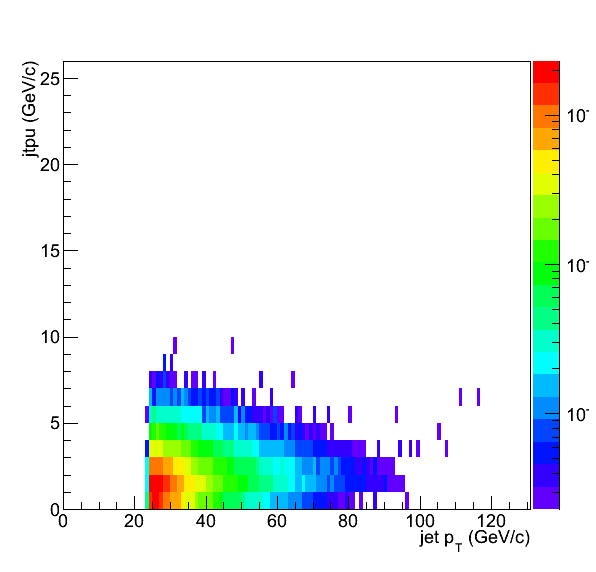
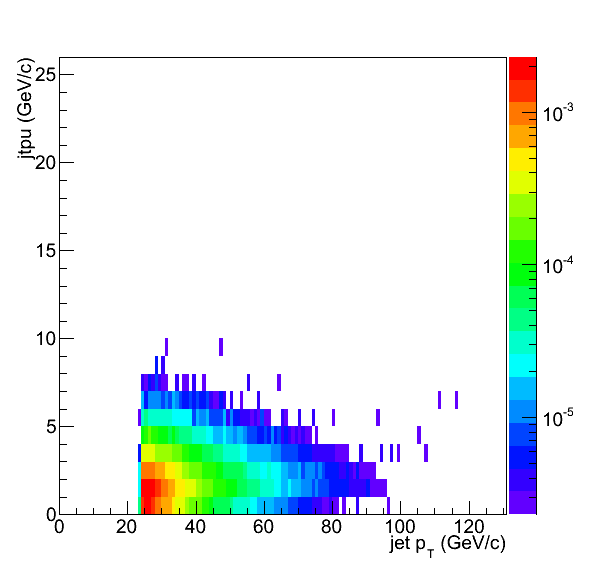
jtpu

Changed region(s): [[0.0302, 0.0892, 0.9966, 0.9808], [0.7248, 0.6836, 0.8154, 0.7133], [0.3624, 0.5944, 0.3926, 0.6241]]

diff --git a/jetRpA/RpA/NewMC/JetID/Drawjtptvsjtpu.C b/jetRpA/RpA/NewMC/JetID/Drawjtptvsjtpu.C
@@ -53,7 +53,8 @@ void Drawjtptvsjtpu(){
 	
 	c1 = new TCanvas("c1"," ",600,600);
 //	makeMultiPanelCanvas(c1,2,1,0,0,0.1,0.15,0.03);		
-	c1->Divide(1,1,0.01,0.01);
+//	c1->Divide(1,1,0.01,0.01);
+	c1->SetRightMargin(0.15);
 //	t->Draw("jtpt:jtpu>>jtptvsjtpu","weight*(rawpt>=20 && jteta<=1-0.465 && jteta>=-1-0.465)");
 	jtptvsjtpu->SetTitle("");
 	jtptvsjtpu->GetXaxis()->SetTitle("jet p_{T} (GeV/c)");
